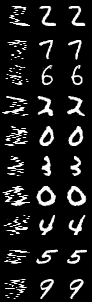
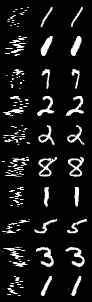
Update inference code and outputs

diff --git a/mnist_cDDPM/scripts_cDDPM0114/infer_cDDPM0114.py b/mnist_cDDPM/scripts_cDDPM0114/infer_cDDPM0114.py
@@ -6,8 +6,9 @@ Handles both quick sampling (visualization) and full metric computation (MSE/SSI
 python -m scripts_cDDPM0114.infer_cDDPM0114 \
   --ckpt-paths runs_cDDPM0114/train_full200000/ckpt_step040000.pt runs_cDDPM0114/train_full200000/ckpt_step100000.pt runs_cDDPM0114/train_full200000/ckpt_step140000.pt runs_cDDPM0114/train_full200000/model_last.pt \
   --output-dir runs_cDDPM0114/train_full200000/infer \
-  --mode sample \
-  --use-mnist-split test
+  --mode metrics \
+  --use-mnist-split test \
+  --save-ssim-map
 """
 
 from __future__ import annotations
@@ -20,6 +21,7 @@ import torch
 import torch.nn.functional as F
 from tqdm import tqdm
 import matplotlib.pyplot as plt
+import numpy as np 
 
 from ddpm.mnist_model import ConditionalUNet
 from ddpm.mnist_scheduler import NoiseScheduler
@@ -50,6 +52,10 @@ def parse_args():
     p.add_argument("--sample-count", type=int, default=10, help="Number of cond/pred/target triplets to visualize")
     p.add_argument("--sample-max-batches", type=int, default=4, help="Max batches to draw from when collecting samples")
     
+    # SSIM
+    p.add_argument("--save-ssim-map", action="store_true", help="If set, save SSIM map images for worst/best samples (requires skimage full=True).",)
+    p.add_argument("--ssim-map-limit", type=int, default=1, help="How many best/worst SSIM maps to save. default=1",)
+
     return p.parse_args()
 
 def load_model_and_sched(ckpt_path: Path, device: torch.device):
@@ -133,8 +139,16 @@ def run_metrics(args, model, sched, loader, device, out_dir, *, ckpt_path: str):
     denom = 0
     ssim_sum = 0.0
     ssim_count = 0
+    
     min_ssim = float("inf")
+    max_ssim = -float("inf")
+
     worst_triplet = None # (cond, pred, target) all in [-1,1]
+    best_triplet = None  # (cond, pred, target) all in [-1,1]
+    
+    worst_map = None # np.ndarray (H,W)
+    best_map = None # np.ndarray (H,W)
+
     ssim_list = []
 
     for cond, x0 in tqdm(loader, desc="Evaluating"):
@@ -163,11 +177,12 @@ def run_metrics(args, model, sched, loader, device, out_dir, *, ckpt_path: str):
         #   save_triplet_grid에서 to_01_range가 1번만 적용되어 회색 배경(더블 스케일링) 문제가 없음
         bs = pred_cpu.shape[0]
         for i in range(bs):
-            val = ssim(t01[i].squeeze(), p01[i].squeeze(), data_range=1.0)
+            val, s_map = ssim(t01[i].squeeze(), p01[i].squeeze(), data_range=1.0, full=True) # SSIM map 반환
             ssim_sum += val
             ssim_count += 1
             ssim_list.append(val)
 
+            # worst
             if val < min_ssim:
                 min_ssim = val
                 # ✅ worst 저장은 원본 텐서(-1~1)로 저장 (더블 스케일링 방지)
@@ -176,6 +191,17 @@ def run_metrics(args, model, sched, loader, device, out_dir, *, ckpt_path: str):
                     x0_cpu[i : i + 1],    # target in [-1,1]
                     pred_cpu[i : i + 1],  # pred in [-1,1]
                 )
+                worst_map = s_map
+
+            # best
+            if val > max_ssim:
+                max_ssim = val
+                best_triplet = (
+                    cond_cpu[i : i + 1],
+                    x0_cpu[i : i + 1],
+                    pred_cpu[i : i + 1],
+                )
+                best_map = s_map
 
     final_mse = mse_sum / max(1, denom)
     final_ssim = ssim_sum / max(1, ssim_count)
@@ -189,13 +215,32 @@ def run_metrics(args, model, sched, loader, device, out_dir, *, ckpt_path: str):
         f.write(f"SSIM: {final_ssim:.6f}\n")
         f.write(f"Num Samples: {ssim_count}\n")
         f.write(f"Min SSIM: {min_ssim:.6f}\n")
-
+        f.write(f"Max SSIM: {max_ssim:.6f}\n")
+    
+    # worst 이미지 저장
     if worst_triplet is not None:
         worst_path = out_dir / f"worst_ssim_{args.use_mnist_split}.png"
         # worst_triplet = (cond, pred, target) in [-1,1]
         c, p, t = worst_triplet
         save_triplet_grid(c, p, t, worst_path, max_rows=1)
         print(f"[Info] Worst SSIM={min_ssim:.6f} saved to {worst_path}")
+
+        if args.save_ssim_map and (worst_map is not None):
+            worst_map_path = out_dir / f"worst_ssim_map_{args.use_mnist_split}.png"
+            _save_ssim_map_png(worst_map, worst_map_path, title=f"Worst SSIM map ({min_ssim:.4f})")
+            print(f"[Info] Worst SSIM map saved to {worst_map_path}")
+    # best 이미지 저장
+    if best_triplet is not None:
+        best_path = out_dir / f"best_ssim_{args.use_mnist_split}.png"
+        c, p, t = best_triplet
+        save_triplet_grid(c, p, t, best_path, max_rows=1)
+        print(f"[Info] Best SSIM={max_ssim:.6f} saved to {best_path}")
+
+        if args.save_ssim_map and (best_map is not None):
+            best_map_path = out_dir / f"best_ssim_map_{args.use_mnist_split}.png"
+            _save_ssim_map_png(best_map, best_map_path, title=f"Best SSIM map ({max_ssim:.4f})")
+            print(f"[Info] Best SSIM map saved to {best_map_path}")
+            
 
     # SSIM distribution plot
     if len(ssim_list) > 0:
@@ -213,6 +258,20 @@ def run_metrics(args, model, sched, loader, device, out_dir, *, ckpt_path: str):
     print(f"[Done] Results saved to {res_path}")
     print(f"      MSE: {final_mse:.6f}")
     print(f"      SSIM: {final_ssim:.6f}")
+
+
+def _save_ssim_map_png(ssim_map: np.ndarray, out_path: Path, title: str = "SSIM map") -> None:
+    """
+    ssim_map: (H,W) float array, typically in [0,1]
+    """
+    plt.figure()
+    plt.imshow(ssim_map, vmin=0, vmax=1)
+    plt.colorbar()
+    plt.title(title)
+    plt.axis("off")
+    plt.tight_layout()
+    plt.savefig(out_path, dpi=300)
+    plt.close()
 
 
 def main():
